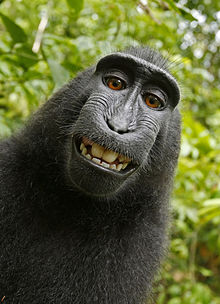
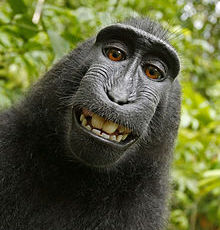
altered image and made image scale to page size

diff --git a/style.css b/style.css
@@ -10,7 +10,13 @@
 
 .inner-lightbox {
 	margin: 0 auto;
-	max-width: 500px;
+	max-width: 99%;
 	margin-top: 30vh;
 }
 
+img {
+	display: block;
+	width: 30%;
+	margin-left: auto;
+	margin-right: auto;
+}
